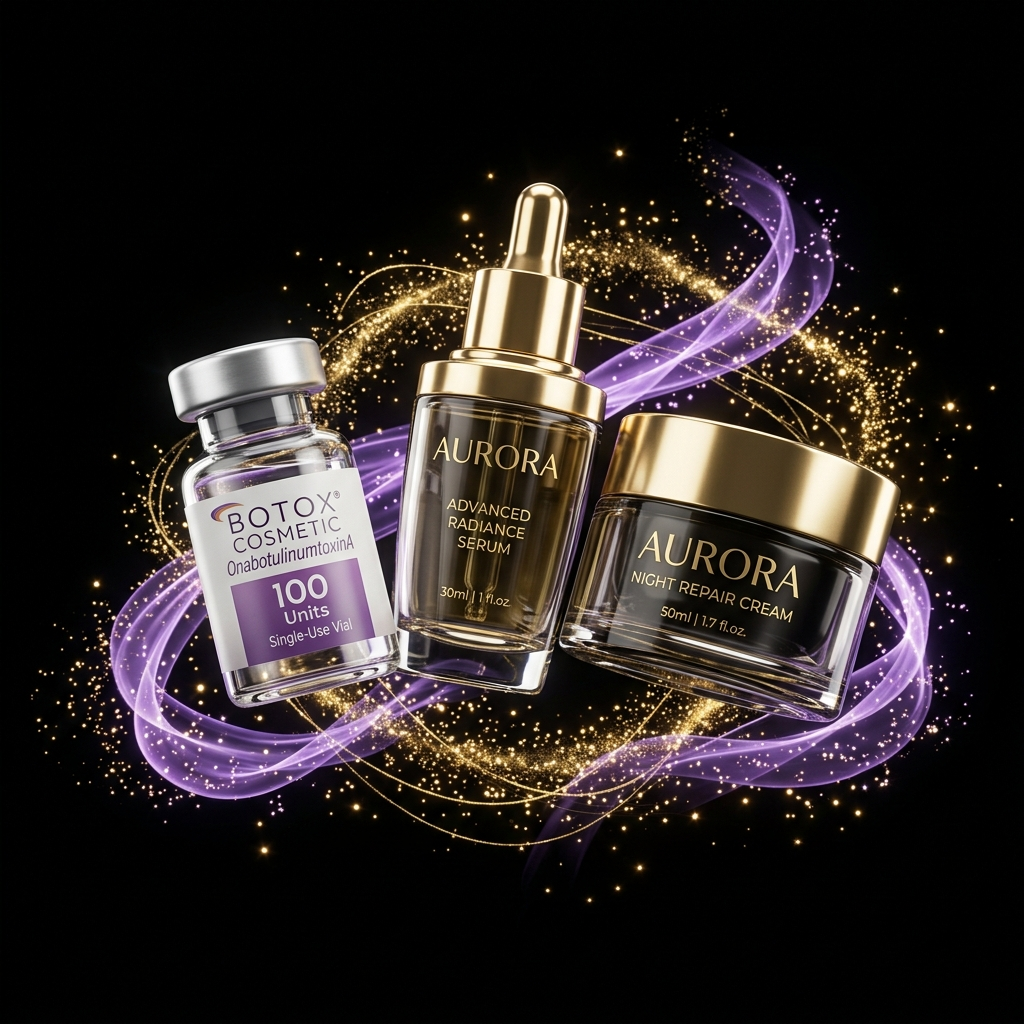
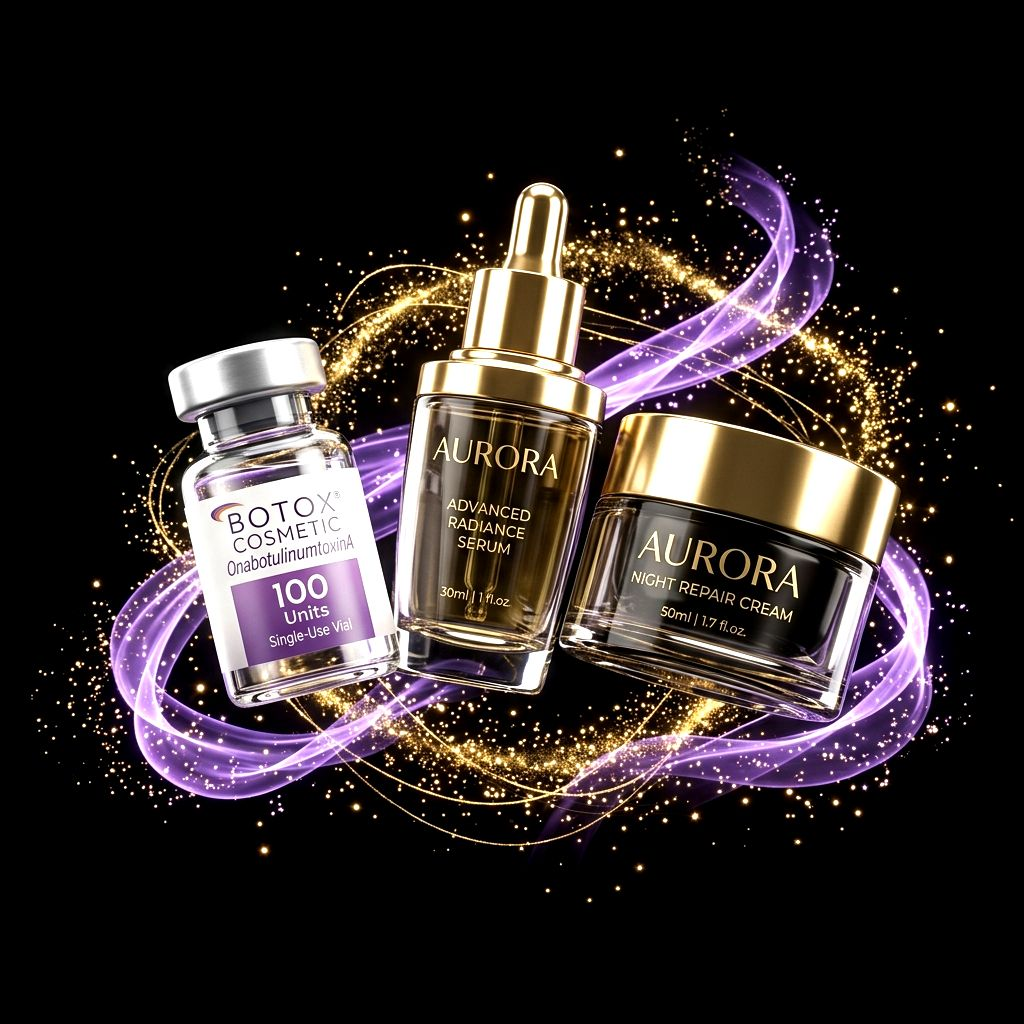
fix(ui): clean glow assets, clip composition overflow, fix info-box scale
Three bugs reported after visual QA against the Figma reference:

1. Boxy edges around every floating product photo. The "glow" JPEG
   assets carried Figma's mix-blend-mode: plus-lighter, but their
   supposedly-black backgrounds weren't pure black (JPEG compression
   noise), so blending them additively left a faint visible square
   around each item. Crushed blacks on all 9 glow assets with sharp
   (linear(1.35, -18)) so the background truly contributes nothing
   under the blend mode, matching the seamless reference render.

2. A bill stack appeared shifted to the bottom of the hero. The
   composition container had no overflow clipping, so node 77:191
   (Figma's small money stack, intentionally 98% off the bottom edge
   with only a sliver visible in-frame) rendered at full size in the
   section's padding area instead of being cropped like the original
   1280x728 frame. Added overflow-hidden to the composition wrapper.

3. Date/investment info boxes had inconsistent height and looked
   undersized relative to the poster at non-desktop viewport widths.
   Root cause: text used Tailwind breakpoint classes (sm:/md:) while
   the poster composition scales continuously via percentages up to
   1280px - between breakpoints the two scaling systems drift apart.
   Switched all central-content typography, spacing, and box sizing
   to viewport-relative clamp() values (matching each property's
   exact Figma px/1280 ratio) so it scales in lockstep with the
[…]

Changed region(s): [[0.0938, 0.1562, 0.9375, 0.7812]]

diff --git a/src/app/components/AnimatedHero.tsx b/src/app/components/AnimatedHero.tsx
@@ -29,11 +29,14 @@ export default function AnimatedHero() {
           style={{
             left: '50%',
             top: '25.549%',
-            width: 'clamp(200px, 27.031%, 320px)',
+            width: 'clamp(200px, 27.031%, 346px)',
             transform: 'translateX(-50%)',
           }}
         >
-          <p className="font-(family-name:--font-display) text-white uppercase text-[11px] sm:text-sm md:text-base tracking-tight text-center w-full">
+          <p
+            className="font-(family-name:--font-display) text-white uppercase tracking-tight text-center w-full"
+            style={{ fontSize: 'clamp(8px, 1.19vw, 15px)' }}
+          >
             Rifa Pro Fondos
           </p>
 
@@ -46,23 +49,52 @@ export default function AnimatedHero() {
             />
           </div>
 
-          <div className="flex flex-col items-center gap-4 md:gap-[29px] mt-1 md:mt-2 w-full">
-            <div className="flex gap-2 sm:gap-4 md:gap-8 items-center justify-center text-white uppercase w-full">
-              <div className="border-2 border-white rounded-[5px] flex flex-col items-center justify-center gap-1 px-2 py-2 sm:px-4 sm:py-3">
-                <p className="font-sans font-semibold text-[7px] sm:text-[9px] md:text-[11px] tracking-wide whitespace-nowrap">
+          <div className="flex flex-col items-center gap-3 mt-1 w-full" style={{ gap: 'clamp(12px, 1.81vw, 23px)' }}>
+            <div
+              className="flex items-center justify-center text-white uppercase w-full"
+              style={{ gap: 'clamp(8px, 2vw, 26px)' }}
+            >
+              <div
+                className="border-2 border-white rounded-[5px] flex flex-col items-center justify-center"
+                style={{
+                  height: 'clamp(52px, 5.78vw, 74px)',
+                  paddingInline: 'clamp(8px, 1.25vw, 16px)',
+                  gap: 'clamp(1px, 0.23vw, 3px)',
+                }}
+              >
+                <p
+                  className="font-sans font-semibold tracking-wide whitespace-nowrap"
+                  style={{ fontSize: 'clamp(6px, 0.86vw, 11px)' }}
+                >
                   Sorteo en Vivo:
                 </p>
-                <p className="font-(family-name:--font-display) text-[9px] sm:text-xs md:text-[18px] leading-tight text-center">
+                <p
+                  className="font-(family-name:--font-display) leading-tight text-center"
+                  style={{ fontSize: 'clamp(8px, 1.41vw, 18px)' }}
+                >
                   24 Agosto
                   <br />
                   4:00PM
                 </p>
               </div>
-              <div className="border-2 border-white rounded-[5px] flex flex-col items-center justify-center gap-1 px-3 py-2 sm:px-6 sm:py-3">
-                <p className="font-sans font-semibold text-[7px] sm:text-[9px] md:text-[11px] tracking-wide whitespace-nowrap">
+              <div
+                className="border-2 border-white rounded-[5px] flex flex-col items-center justify-center"
+                style={{
+                  height: 'clamp(52px, 5.78vw, 74px)',
+                  paddingInline: 'clamp(14px, 2.19vw, 28px)',
+                  gap: 'clamp(1px, 0.23vw, 3px)',
+                }}
+              >
+                <p
+                  className="font-sans font-semibold tracking-wide whitespace-nowrap"
+                  style={{ fontSize: 'clamp(6px, 0.86vw, 11px)' }}
+                >
                   Inversión:
                 </p>
-                <p className="font-(family-name:--font-display) text-[9px] sm:text-xs md:text-[18px] whitespace-nowrap">
+                <p
+                  className="font-(family-name:--font-display) whitespace-nowrap"
+                  style={{ fontSize: 'clamp(8px, 1.41vw, 18px)' }}
+                >
                   10 soles
                 </p>
               </div>
@@ -70,7 +102,13 @@ export default function AnimatedHero() {
 
             <Link
               href="/prizes"
-              className="bg-white text-[#272727] uppercase font-sans font-semibold rounded-[9px] px-3 py-2 sm:px-4.5 sm:py-3.5 text-[9px] sm:text-xs md:text-[18px] whitespace-nowrap transition-transform duration-300 hover:scale-105 shadow-[0_0_25px_rgba(255,255,255,0.35)]"
+              className="bg-white text-[#272727] uppercase font-sans font-semibold whitespace-nowrap transition-transform duration-300 hover:scale-105 shadow-[0_0_25px_rgba(255,255,255,0.35)]"
+              style={{
+                borderRadius: 'clamp(6px, 0.7vw, 9px)',
+                paddingInline: 'clamp(12px, 1.41vw, 18px)',
+                paddingBlock: 'clamp(9px, 1.09vw, 14px)',
+                fontSize: 'clamp(8px, 1.41vw, 18px)',
+              }}
             >
               Ver Catálogo de Premios
             </Link>

diff --git a/src/app/components/FigmaHeroComposition.tsx b/src/app/components/FigmaHeroComposition.tsx
@@ -119,7 +119,7 @@ const items: FloatItem[] = [
 export default function FigmaHeroComposition() {
   return (
     <div
-      className="relative w-full mx-auto"
+      className="relative w-full mx-auto overflow-hidden"
       style={{ maxWidth: 1280, aspectRatio: '1280 / 728' }}
     >
       {/* Mystical energy ring behind everything */}
